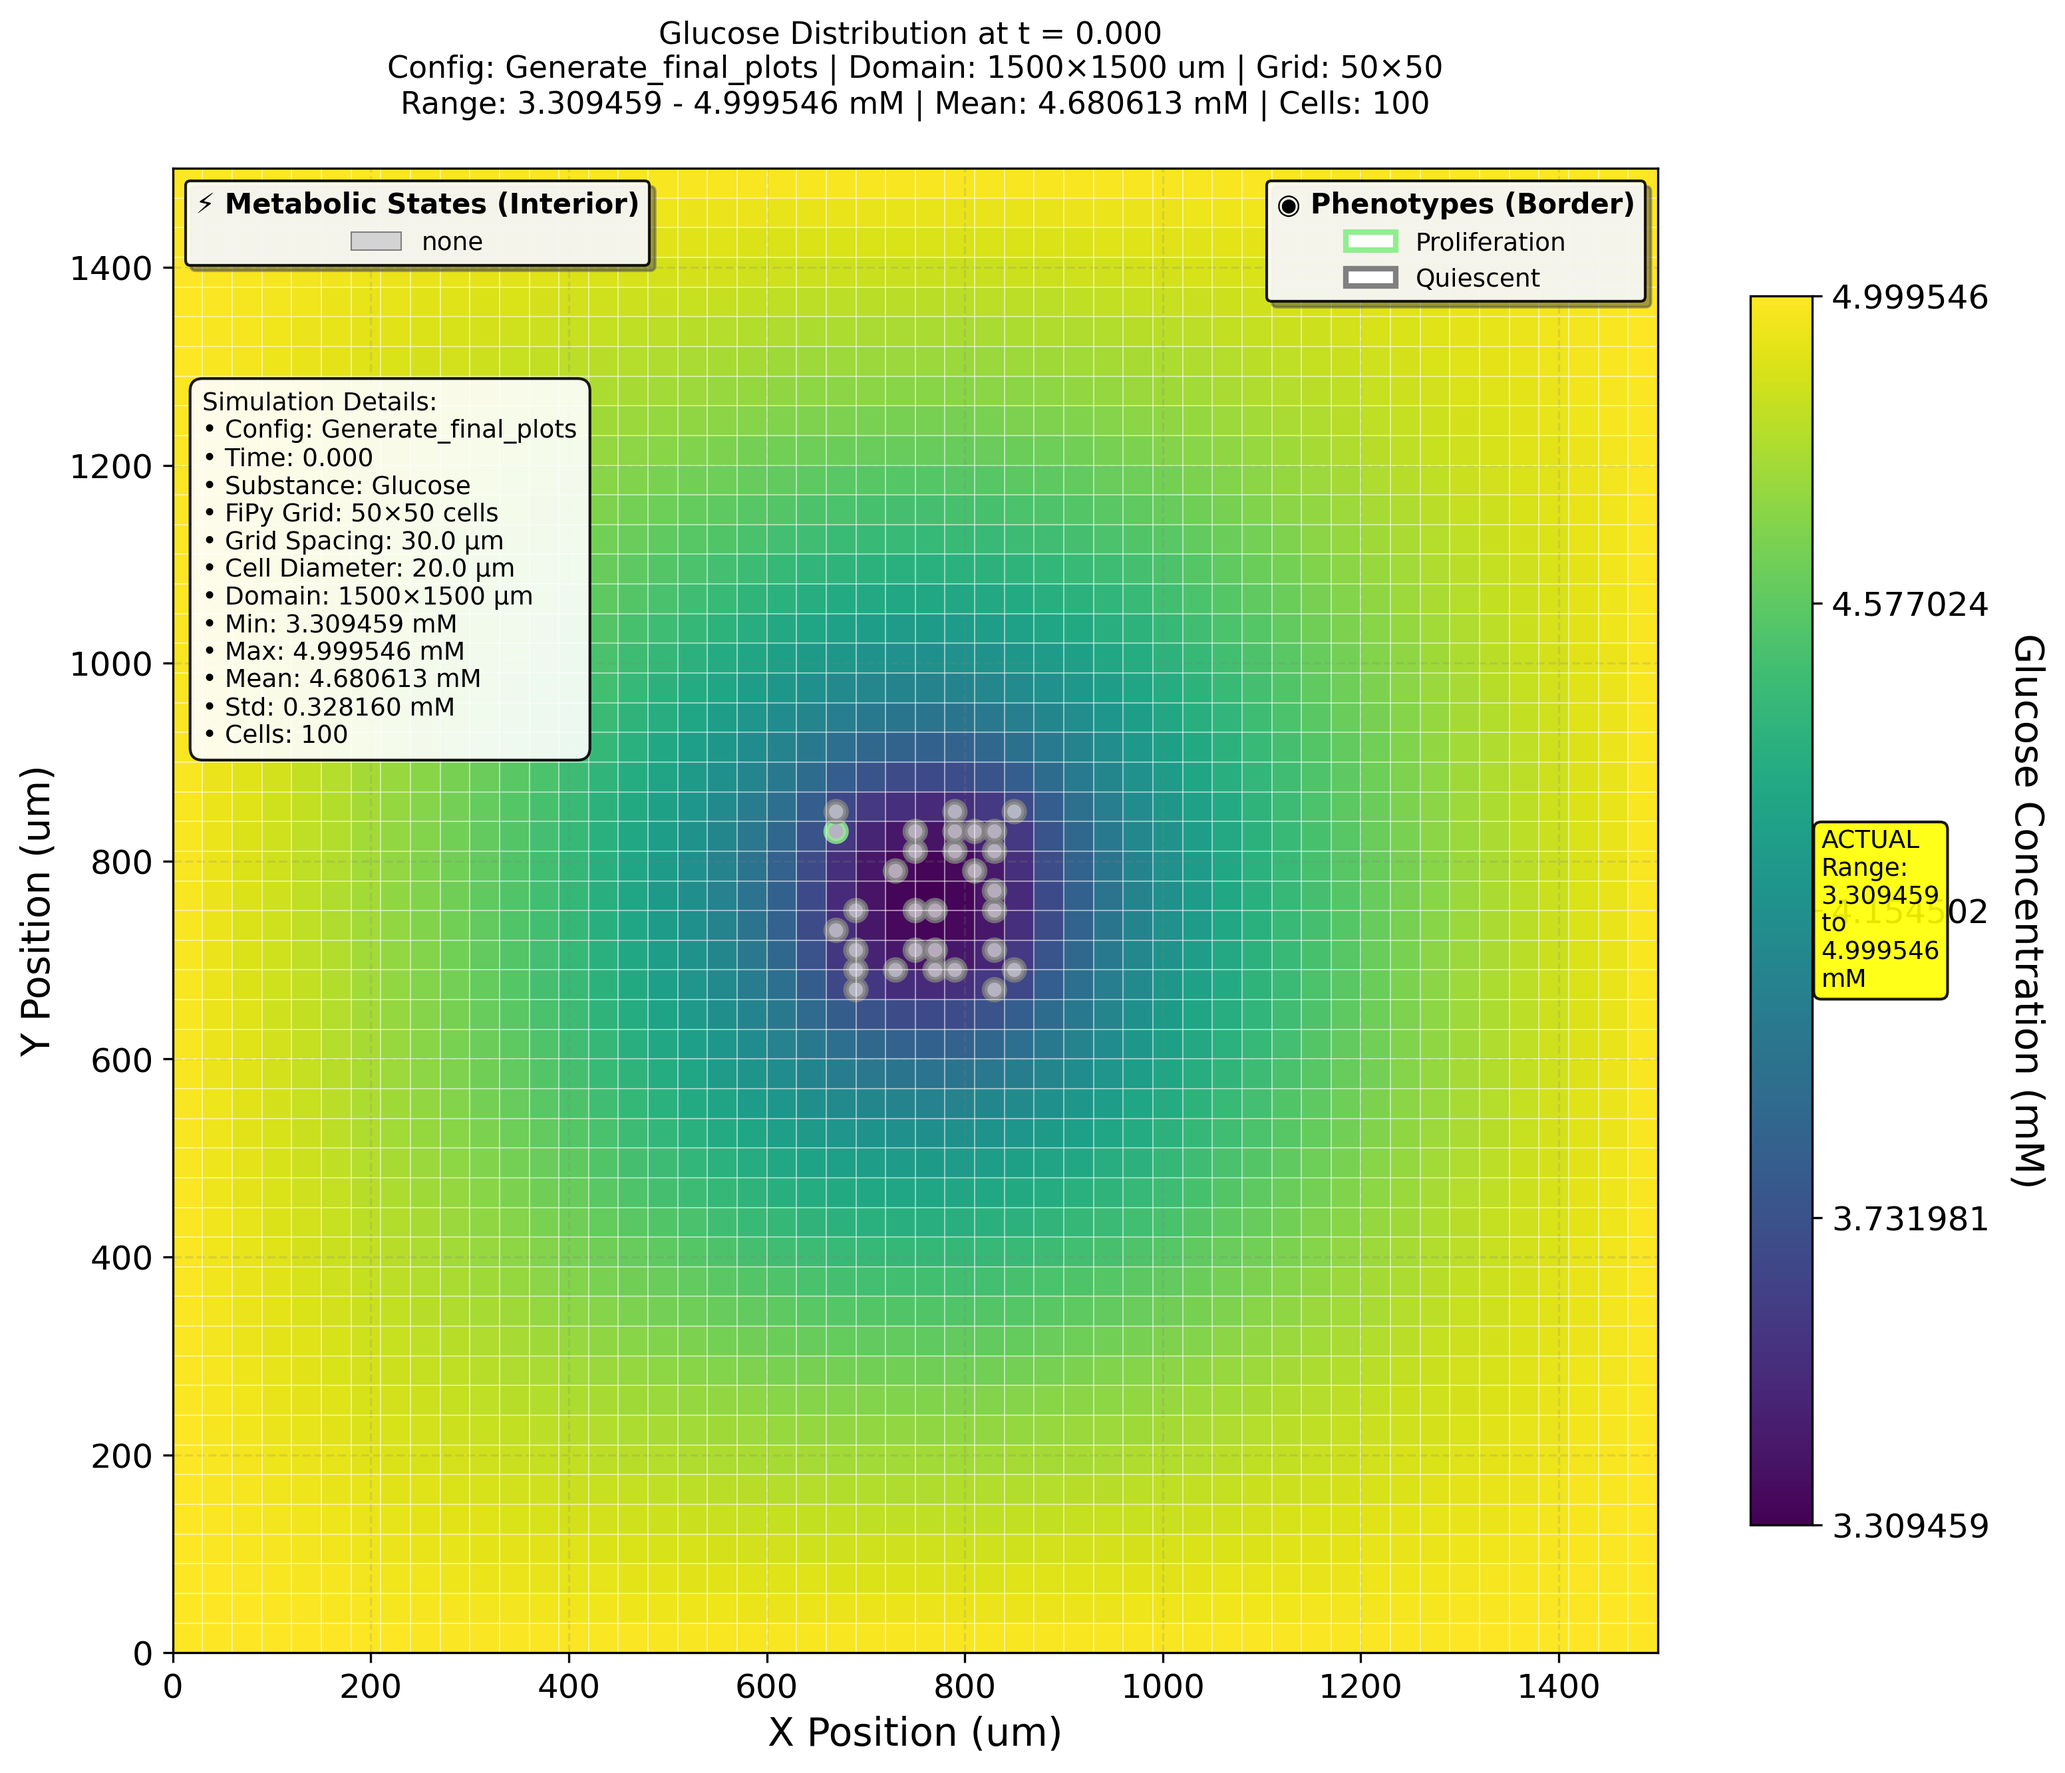
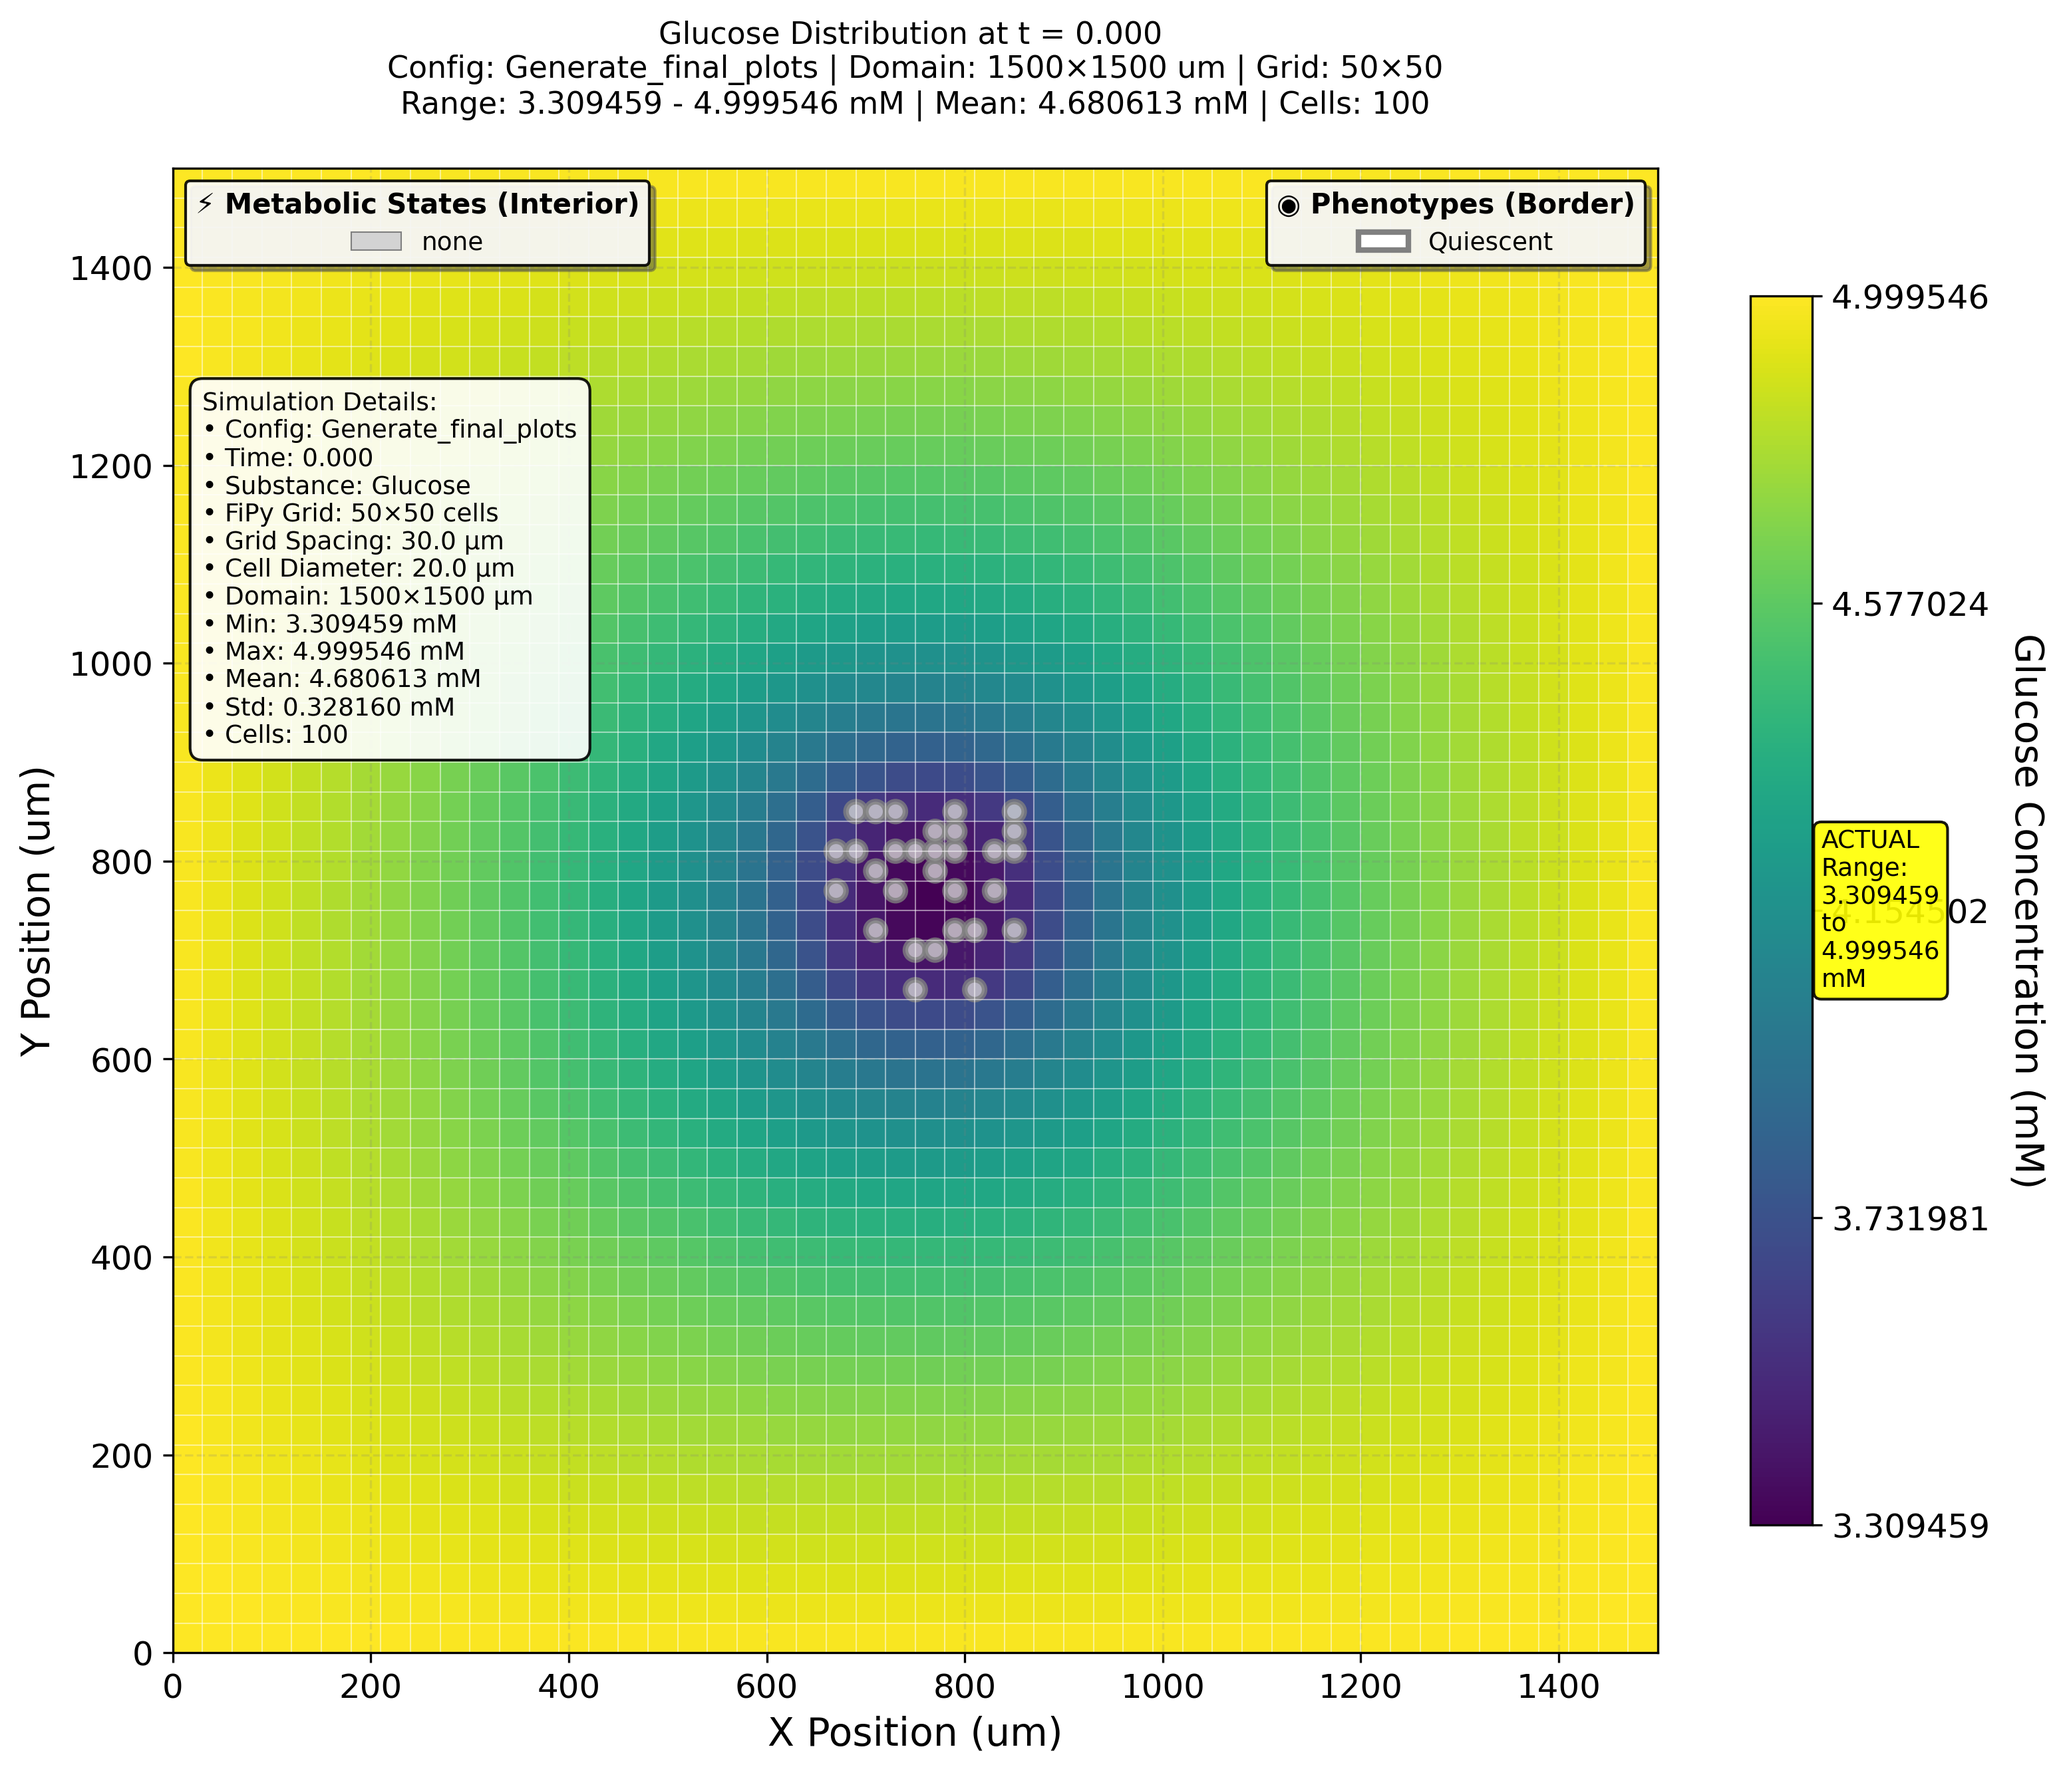
Fix cell placement and concentration clamping
1. Regenerated initial_cells_100_center_1500.csv with circular (spheroid) pattern
   - Changed from 10x10 square grid to circular packing
   - Cells now arranged in a circle centered at (37, 37)
   - 100 cells packed in spheroid pattern

2. Added concentration clamping to prevent unphysical negative values
   - Clamp all substance concentrations to >= 0 after diffusion solver
   - Log warning when negative values are detected and clamped
   - Prevents unphysical negative concentrations due to numerical errors

Changed region(s): [[0.375, 0.4359, 0.5, 0.5604], [0.5938, 0.1245, 0.8125, 0.1868]]

diff --git a/opencellcomms_engine/src/simulation/multi_substance_simulator.py b/opencellcomms_engine/src/simulation/multi_substance_simulator.py
@@ -511,10 +511,16 @@ class MultiSubstanceSimulator:
                     (self.config.domain.ny, self.config.domain.nx), order='F'
                 )
 
+            # Clamp concentrations to non-negative values (physical constraint)
+            # Negative values are unphysical and can occur due to numerical errors
+            negative_count = np.sum(substance_state.concentrations < 0)
+            if negative_count > 0:
+                min_val = np.min(substance_state.concentrations)
+                print(f"   [CLAMP] {name}: {negative_count} negative values detected (min={min_val:.6f} mM), clamping to zero")
+                substance_state.concentrations = np.maximum(substance_state.concentrations, 0.0)
+
             # CRITICAL: Update the FiPy variable so CSV export gets the correct values
             # The CSV export reads from self.fipy_variables[name], not from substance_state.concentrations
-            # NOTE: We do NOT clamp to non-negative here - FiPy's solution is used as-is
-            # If negative values occur, it indicates a problem with the setup (timestep, BCs, etc.)
             self.fipy_variables[name].setValue(substance_state.concentrations.flatten(order='F'))
     
     def _create_source_field_from_reactions(self, substance_name: str,
